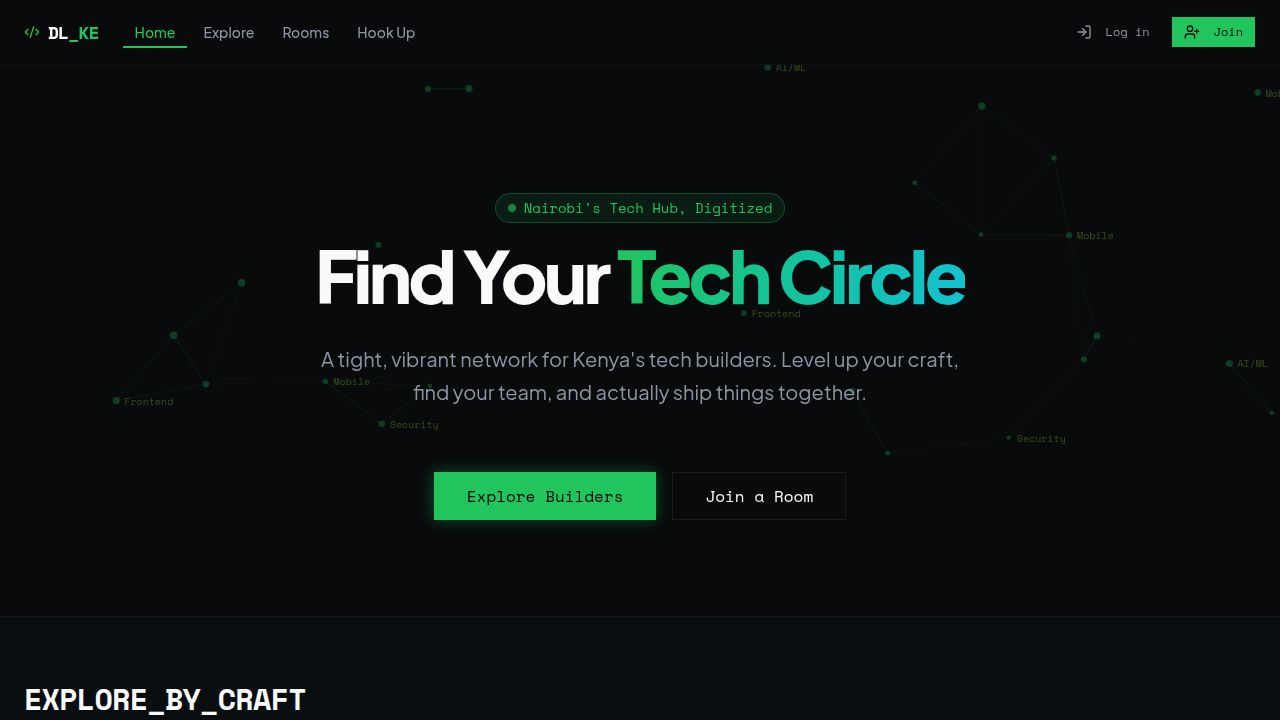
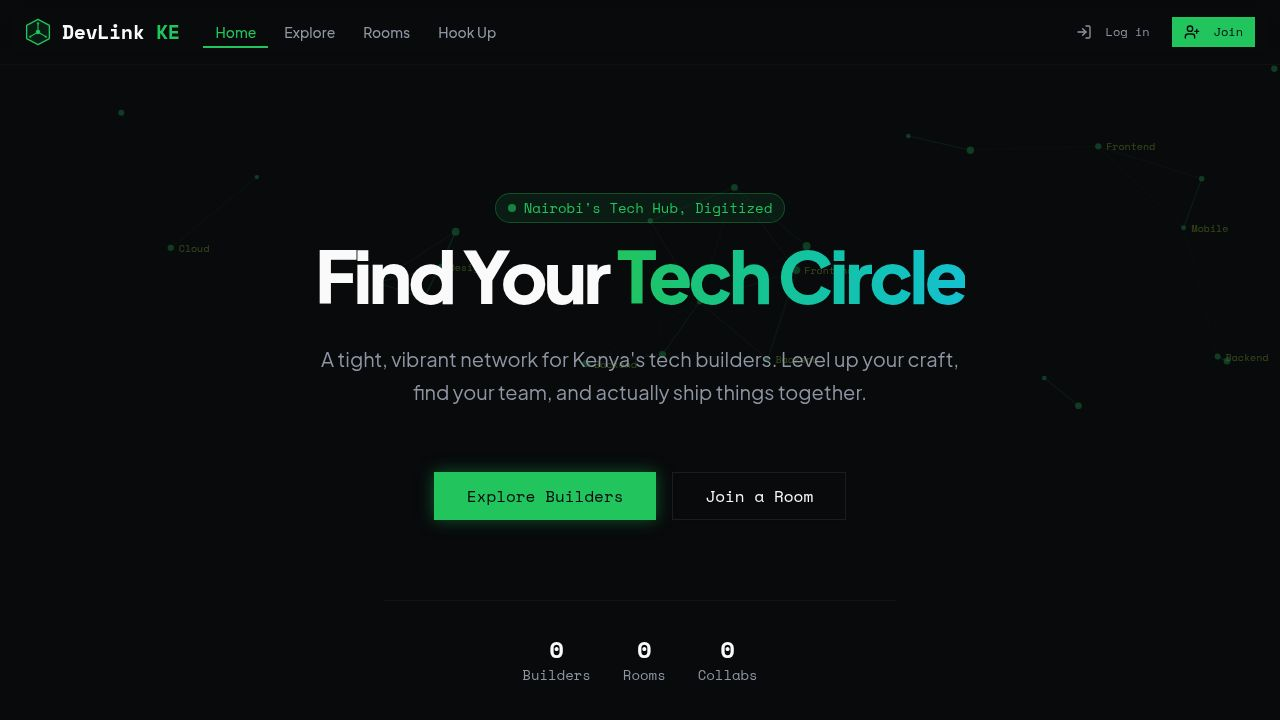
Update email sender to use Resend's default address
Adjust email sender addresses in email-verification.ts and password-reset.ts to '[email redacted]' to ensure deliverability without requiring custom domain verification.

Replit-Commit-Author: Agent
Replit-Commit-Session-Id: 24a7a649-d4cd-45d6-a8a7-aa8d935ca352
Replit-Commit-Checkpoint-Type: full_checkpoint
Replit-Commit-Event-Id: cccd5825-1634-408a-879e-d2f990477c2e
Replit-Commit-Screenshot-Url: https://storage.googleapis.com/screenshot-production-us-central1/2969a05e-8e44-4ace-b0c1-2ab6c9ba44b1/24a7a649-d4cd-45d6-a8a7-aa8d935ca352/Je71XYk
Replit-Helium-Checkpoint-Created: true

diff --git a/artifacts/api-server/src/routes/email-verification.ts b/artifacts/api-server/src/routes/email-verification.ts
@@ -17,7 +17,7 @@ export async function sendVerificationEmail(email: string, verifyUrl: string): P
   const { Resend } = await import("resend");
   const resend = new Resend(apiKey);
   await resend.emails.send({
-    from: "DevLink KE <[email redacted]>",
+    from: "DevLink KE <[email redacted]>",
     to: email,
     subject: "Verify your DevLink KE email",
     html: `

diff --git a/artifacts/api-server/src/routes/password-reset.ts b/artifacts/api-server/src/routes/password-reset.ts
@@ -34,7 +34,7 @@ async function sendResetEmail(to: string, resetUrl: string): Promise<void> {
   const resend = new Resend(apiKey);
 
   await resend.emails.send({
-    from: "DevLink KE <[email redacted]>",
+    from: "DevLink KE <[email redacted]>",
     to,
     subject: "Reset your DevLink KE password",
     html: `